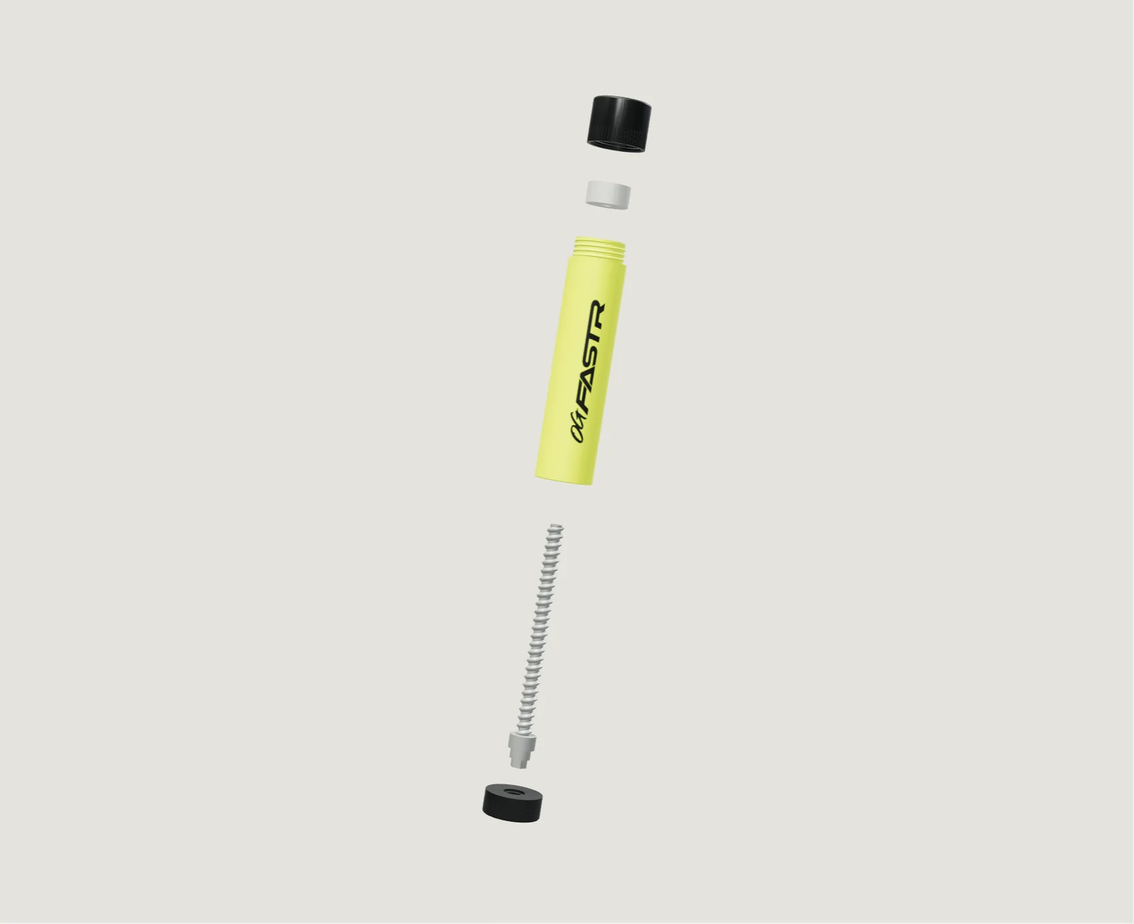
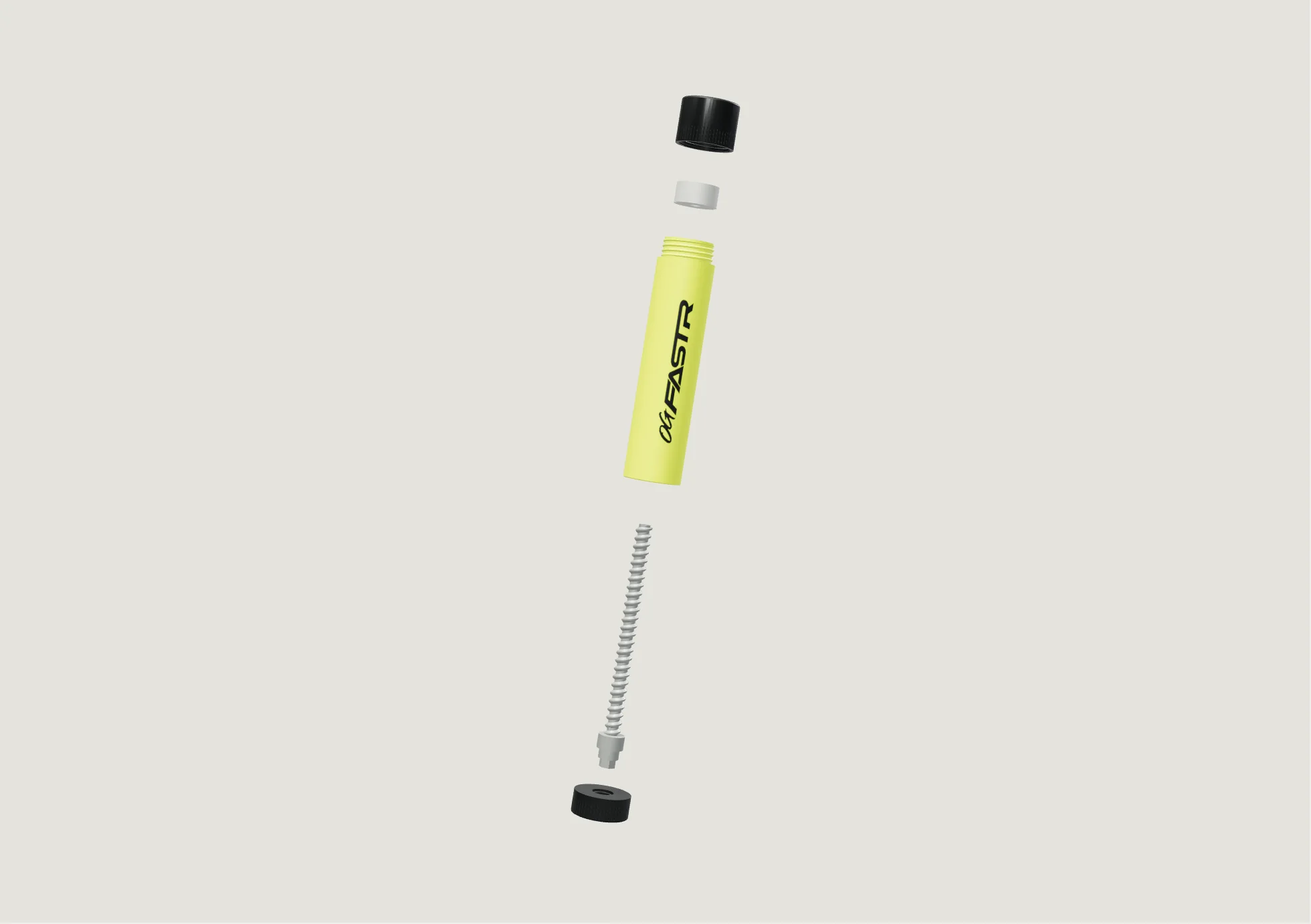
feat: v4 RC13 - asymmetric temple, one large Make still, phone headlines fit
Desktop temple: Run carries two rows, Practice and Wear beside it, Make and Meet below. Make without WebGL or with reduced motion: one large exploded still of our 3D model beside the steps; temple Make tile is the 3D section on the light stage. ANFANGEN and the Meet headline sized for 390, stronger veil. Reduced-motion band shows whole phrases. R3/R4 in docs/RC9_RESULT.md.

Changed region(s): [[0.4688, 0.0933, 0.5938, 0.5289], [0.4062, 0.5912, 0.5, 0.9023]]

diff --git a/og-sports/site/index.html b/og-sports/site/index.html
@@ -72,11 +72,11 @@
 <p aria-hidden="true" class="inscription inscription-roof"><span>Own Greatness</span></p>
 <ol aria-label="Die fünf Säulen" class="pillars" data-label-de="Die fünf Säulen" data-label-en="The five pillars">
 <!--pillars-->
-<li class="pillar pillar-run" style="--i:0"><a href="#fastr"><img alt="Läuferin als Silhouette vor beleuchteter Säulenhalle mit Spiegelung" data-alt-de="Läuferin als Silhouette vor beleuchteter Säulenhalle mit Spiegelung" data-alt-en="Runner silhouetted before an illuminated colonnade with reflection" loading="lazy" src="assets/pillar-run.webp" width="5760" height="7200" srcset="assets/responsive/pillar-run-640.webp 640w, assets/responsive/pillar-run-1080.webp 1080w, assets/responsive/pillar-run-1600.webp 1600w, assets/responsive/pillar-run-2400.webp 2400w, assets/responsive/pillar-run-2880.webp 2880w" sizes="(max-width: 600px) calc(100vw - 40px), (max-width: 767px) calc(100vw - 44px), (max-width: 899px) 100vw, 50vw" style="object-position:50% 45%"/><span class="pillar-num">I</span><span class="pillar-kind" data-de="Symbolbild · limoo / Pexels" data-en="Illustrative photo · limoo / Pexels">Symbolbild · limoo / Pexels</span><span class="pillar-word run">Run</span><span class="pillar-name">OG FASTR</span></a></li>
-<li class="pillar pillar-practice" style="--i:1"><a href="#practice"><img alt="Läufer auf einer Betontreppe im Abendlicht" data-alt-de="Läufer auf einer Betontreppe im Abendlicht" data-alt-en="Runner on concrete stairs in evening light" loading="lazy" src="assets/pillar-practice.webp" width="5304" height="7952" srcset="assets/responsive/pillar-practice-640.webp 640w, assets/responsive/pillar-practice-1080.webp 1080w, assets/responsive/pillar-practice-1600.webp 1600w, assets/responsive/pillar-practice-2400.webp 2400w, assets/responsive/pillar-practice-2880.webp 2880w" sizes="(max-width: 600px) calc(100vw - 40px), (max-width: 767px) calc(100vw - 44px), (max-width: 899px) 50vw, 50vw" style="object-position:50% 55%"/><span class="pillar-num">II</span><span class="pillar-kind" data-de="Symbolbild · Red John / Unsplash" data-en="Illustrative photo · Red John / Unsplash">Symbolbild · Red John / Unsplash</span><span class="pillar-word run">Practice</span><span class="pillar-name">FASTR30</span></a></li>
+<li class="pillar pillar-run" style="--i:0"><a href="#fastr"><img alt="Läuferin als Silhouette vor beleuchteter Säulenhalle mit Spiegelung" data-alt-de="Läuferin als Silhouette vor beleuchteter Säulenhalle mit Spiegelung" data-alt-en="Runner silhouetted before an illuminated colonnade with reflection" loading="lazy" src="assets/pillar-run.webp" width="5760" height="7200" srcset="assets/responsive/pillar-run-640.webp 640w, assets/responsive/pillar-run-1080.webp 1080w, assets/responsive/pillar-run-1600.webp 1600w, assets/responsive/pillar-run-2400.webp 2400w, assets/responsive/pillar-run-2880.webp 2880w" sizes="(max-width: 600px) calc(100vw - 40px), (max-width: 767px) calc(100vw - 44px), (max-width: 899px) 100vw, 66.67vw" style="object-position:50% 45%"/><span class="pillar-num">I</span><span class="pillar-kind" data-de="Symbolbild · limoo / Pexels" data-en="Illustrative photo · limoo / Pexels">Symbolbild · limoo / Pexels</span><span class="pillar-word run">Run</span><span class="pillar-name">OG FASTR</span></a></li>
+<li class="pillar pillar-practice" style="--i:1"><a href="#practice"><img alt="Läufer auf einer Betontreppe im Abendlicht" data-alt-de="Läufer auf einer Betontreppe im Abendlicht" data-alt-en="Runner on concrete stairs in evening light" loading="lazy" src="assets/pillar-practice.webp" width="5304" height="7952" srcset="assets/responsive/pillar-practice-640.webp 640w, assets/responsive/pillar-practice-1080.webp 1080w, assets/responsive/pillar-practice-1600.webp 1600w, assets/responsive/pillar-practice-2400.webp 2400w, assets/responsive/pillar-practice-2880.webp 2880w" sizes="(max-width: 600px) calc(100vw - 40px), (max-width: 767px) calc(100vw - 44px), (max-width: 899px) 50vw, 33.33vw" style="object-position:50% 55%"/><span class="pillar-num">II</span><span class="pillar-kind" data-de="Symbolbild · Red John / Unsplash" data-en="Illustrative photo · Red John / Unsplash">Symbolbild · Red John / Unsplash</span><span class="pillar-word run">Practice</span><span class="pillar-name">FASTR30</span></a></li>
 <li class="pillar pillar-wear" style="--i:2"><a href="#apparel"><img alt="FASTR30 Graphic Hoodie in Lavender" data-alt-de="FASTR30 Graphic Hoodie in Lavender" data-alt-en="FASTR30 Graphic Hoodie in lavender" loading="lazy" src="assets/responsive/hoodie-lavender-800.webp" width="1792" height="2240" srcset="assets/responsive/hoodie-lavender-480.webp 480w, assets/responsive/hoodie-lavender-800.webp 800w, assets/responsive/hoodie-lavender-1200.webp 1200w, assets/responsive/hoodie-lavender-1600.webp 1600w, assets/responsive/hoodie-lavender-1792.webp 1792w" sizes="(max-width: 600px) calc(100vw - 40px), (max-width: 767px) calc(100vw - 44px), (max-width: 899px) 50vw, 33.33vw" style="object-position:50% 36%"/><span class="pillar-num">III</span><span class="pillar-kind" data-de="KI-Visualisierung" data-en="AI visualisation">KI-Visualisierung</span><span class="pillar-word run">Wear</span><span class="pillar-name">Apparel</span></a></li>
-<li class="pillar pillar-make" style="--i:3"><a href="#stick"><img alt="FASTR STICK im 3D-Schnitt: Spindel und Hubteller" data-alt-de="FASTR STICK im 3D-Schnitt: Spindel und Hubteller" data-alt-en="FASTR STICK in 3D section: spindle and lift cup" loading="lazy" src="assets/stick-function.webp" width="1696" height="1382" style="object-position:50% 50%"/><span class="pillar-num">IV</span><span class="pillar-kind" data-de="3D-Produktvisualisierung · Prototyp" data-en="3D product visualisation · prototype">3D-Produktvisualisierung · Prototyp</span><span class="pillar-word run">Make</span><span class="pillar-name">FASTR STICK</span></a></li>
-<li class="pillar pillar-meet" style="--i:4"><a href="#live"><picture><source media="(max-width: 767px)" width="3736" height="4670" srcset="assets/responsive/pillar-meet-mobile-640.webp 640w, assets/responsive/pillar-meet-mobile-1080.webp 1080w, assets/responsive/pillar-meet-mobile-1280.webp 1280w, assets/responsive/pillar-meet-mobile-1600.webp 1600w" sizes="(max-width: 600px) calc(100vw - 40px), (max-width: 767px) calc(100vw - 44px), (max-width: 899px) 50vw, 33.33vw"/><img alt="Gruppe als Silhouetten auf einem Dach in der Abenddämmerung" data-alt-de="Gruppe als Silhouetten auf einem Dach in der Abenddämmerung" data-alt-en="Group silhouetted on a rooftop at dusk" loading="lazy" src="assets/pillar-meet.webp" style="object-position:55% 82%" width="3736" height="4670" srcset="assets/responsive/pillar-meet-640.webp 640w, assets/responsive/pillar-meet-1080.webp 1080w, assets/responsive/pillar-meet-1600.webp 1600w, assets/responsive/pillar-meet-2400.webp 2400w, assets/responsive/pillar-meet-2880.webp 2880w" sizes="(max-width: 600px) calc(100vw - 40px), (max-width: 767px) calc(100vw - 44px), (max-width: 899px) 50vw, 33.33vw"/></picture><span class="pillar-num">V</span><span class="pillar-kind" data-de="Symbolbild · Victoria Prymak / Unsplash" data-en="Illustrative photo · Victoria Prymak / Unsplash">Symbolbild · Victoria Prymak / Unsplash</span><span class="pillar-word">Meet</span><span class="pillar-name">Live</span></a></li>
+<li class="pillar pillar-make" style="--i:3"><a href="#stick"><img alt="FASTR STICK im 3D-Schnitt: Spindel und Hubteller" data-alt-de="FASTR STICK im 3D-Schnitt: Spindel und Hubteller" data-alt-en="FASTR STICK in 3D section: spindle and lift cup" loading="lazy" src="assets/stick-function.webp" width="1960" height="1382" style="object-position:50% 50%"/><span class="pillar-num">IV</span><span class="pillar-kind" data-de="3D-Produktvisualisierung · Prototyp" data-en="3D product visualisation · prototype">3D-Produktvisualisierung · Prototyp</span><span class="pillar-word run">Make</span><span class="pillar-name">FASTR STICK</span></a></li>
+<li class="pillar pillar-meet" style="--i:4"><a href="#live"><picture><source media="(max-width: 767px)" width="3736" height="4670" srcset="assets/responsive/pillar-meet-mobile-640.webp 640w, assets/responsive/pillar-meet-mobile-1080.webp 1080w, assets/responsive/pillar-meet-mobile-1280.webp 1280w, assets/responsive/pillar-meet-mobile-1600.webp 1600w" sizes="(max-width: 600px) calc(100vw - 40px), (max-width: 767px) calc(100vw - 44px), (max-width: 899px) 50vw, 50vw"/><img alt="Gruppe als Silhouetten auf einem Dach in der Abenddämmerung" data-alt-de="Gruppe als Silhouetten auf einem Dach in der Abenddämmerung" data-alt-en="Group silhouetted on a rooftop at dusk" loading="lazy" src="assets/pillar-meet.webp" style="object-position:55% 64%" width="3736" height="4670" srcset="assets/responsive/pillar-meet-640.webp 640w, assets/responsive/pillar-meet-1080.webp 1080w, assets/responsive/pillar-meet-1600.webp 1600w, assets/responsive/pillar-meet-2400.webp 2400w, assets/responsive/pillar-meet-2880.webp 2880w" sizes="(max-width: 600px) calc(100vw - 40px), (max-width: 767px) calc(100vw - 44px), (max-width: 899px) 50vw, 50vw"/></picture><span class="pillar-num">V</span><span class="pillar-kind" data-de="Symbolbild · Victoria Prymak / Unsplash" data-en="Illustrative photo · Victoria Prymak / Unsplash">Symbolbild · Victoria Prymak / Unsplash</span><span class="pillar-word">Meet</span><span class="pillar-name">Live</span></a></li>
 <!--/pillars-->
 </ol>
 <p aria-hidden="true" class="inscription inscription-base"><span>Original Grind</span></p>
@@ -173,6 +173,7 @@
 </ol>
 <p class="stick-gesture label" data-de="Ziehen zum Drehen · Scrollen zum Entdecken" data-en="Drag to rotate · Scroll to explore">Ziehen zum Drehen · Scrollen zum Entdecken</p>
 </div>
+<figure class="stick-still"><img alt="FASTR STICK, 3D-Explosionsansicht der fünf Bauteile" data-alt-de="FASTR STICK, 3D-Explosionsansicht der fünf Bauteile" data-alt-en="FASTR STICK, 3D exploded view of the five parts" height="1382" loading="lazy" src="assets/stick-build.webp" width="1960"/></figure>
 <p class="stick-caption label" data-de="3D-Produktvisualisierung · Prototyp, kein Serienprodukt" data-en="3D product visualisation · prototype, not a production product">3D-Produktvisualisierung · Prototyp, kein Serienprodukt</p>
 </div>
 <div class="stick-text">
@@ -182,9 +183,9 @@
 <button type="button" data-stick-phase="2" aria-pressed="false"><span class="label">03</span><span data-de="Funktion" data-en="Function">Funktion</span></button>
 </div>
 <div class="stick-steps">
-<section class="stick-step"><img alt="FASTR STICK, 3D-Ansicht der geschlossenen Form" class="step-still" data-alt-de="FASTR STICK, 3D-Ansicht der geschlossenen Form" data-alt-en="FASTR STICK, 3D view of the closed form" height="1382" loading="lazy" src="assets/stick-form.webp" width="1696"/><p class="label" data-de="01 / Die Form" data-en="01 / The form">01 / Die Form</p><h4 data-de="Weniger dazwischen." data-en="Less in the way.">Weniger dazwischen.</h4><p data-de="Ein Anti-Chafing-Stick für lange Strecken. Schlanke Form, ein klarer Handgriff." data-en="An anti-chafing stick for the long run. A slim form. One simple gesture.">Ein Anti-Chafing-Stick für lange Strecken. Schlanke Form, ein klarer Handgriff.</p></section>
-<section class="stick-step"><img alt="FASTR STICK, 3D-Explosionsansicht der fünf Bauteile" class="step-still" data-alt-de="FASTR STICK, 3D-Explosionsansicht der fünf Bauteile" data-alt-en="FASTR STICK, 3D exploded view of the five parts" height="1382" loading="lazy" src="assets/stick-build.webp" width="1696"/><p class="label" data-de="02 / Der Aufbau" data-en="02 / The build">02 / Der Aufbau</p><h4 data-de="Fünf Teile. Ein Gedanke." data-en="Five parts. One idea.">Fünf Teile. Ein Gedanke.</h4><p data-de="Schraubkappe, Gehäuse, Hubteller, Spindel und Drehfuß. Jedes Teil hat eine Aufgabe." data-en="Screw cap, housing, lift cup, spindle and turning base. Every part has a purpose.">Schraubkappe, Gehäuse, Hubteller, Spindel und Drehfuß. Jedes Teil hat eine Aufgabe.</p></section>
-<section class="stick-step"><img alt="FASTR STICK, 3D-Schnitt mit Spindel und Hubteller" class="step-still" data-alt-de="FASTR STICK, 3D-Schnitt mit Spindel und Hubteller" data-alt-en="FASTR STICK, 3D section with spindle and lift cup" height="1382" loading="lazy" src="assets/stick-function.webp" width="1696"/><p class="label" data-de="03 / Das Funktionsprinzip" data-en="03 / How it works">03 / Das Funktionsprinzip</p><h4 data-de="Drehen. Weitergehen." data-en="Turn. Keep going.">Drehen. Weitergehen.</h4><p data-de="Am Fuß drehen, die Spindel hebt den Hubteller. Der Schnitt zeigt den Vorschub." data-en="Turn the base and the spindle lifts the cup. The section shows the movement.">Am Fuß drehen, die Spindel hebt den Hubteller. Der Schnitt zeigt den Vorschub.</p></section>
+<section class="stick-step"><p class="label" data-de="01 / Die Form" data-en="01 / The form">01 / Die Form</p><h4 data-de="Weniger dazwischen." data-en="Less in the way.">Weniger dazwischen.</h4><p data-de="Ein Anti-Chafing-Stick für lange Strecken. Schlanke Form, ein klarer Handgriff." data-en="An anti-chafing stick for the long run. A slim form. One simple gesture.">Ein Anti-Chafing-Stick für lange Strecken. Schlanke Form, ein klarer Handgriff.</p></section>
+<section class="stick-step"><p class="label" data-de="02 / Der Aufbau" data-en="02 / The build">02 / Der Aufbau</p><h4 data-de="Fünf Teile. Ein Gedanke." data-en="Five parts. One idea.">Fünf Teile. Ein Gedanke.</h4><p data-de="Schraubkappe, Gehäuse, Hubteller, Spindel und Drehfuß. Jedes Teil hat eine Aufgabe." data-en="Screw cap, housing, lift cup, spindle and turning base. Every part has a purpose.">Schraubkappe, Gehäuse, Hubteller, Spindel und Drehfuß. Jedes Teil hat eine Aufgabe.</p></section>
+<section class="stick-step"><p class="label" data-de="03 / Das Funktionsprinzip" data-en="03 / How it works">03 / Das Funktionsprinzip</p><h4 data-de="Drehen. Weitergehen." data-en="Turn. Keep going.">Drehen. Weitergehen.</h4><p data-de="Am Fuß drehen, die Spindel hebt den Hubteller. Der Schnitt zeigt den Vorschub." data-en="Turn the base and the spindle lifts the cup. The section shows the movement.">Am Fuß drehen, die Spindel hebt den Hubteller. Der Schnitt zeigt den Vorschub.</p></section>
 </div>
 <div class="stick-actions"><a class="text-action" href="https://fastr30.com/shop" rel="noopener" target="_blank"><span data-de="Zum STICK" data-en="See the STICK">Zum STICK</span><span aria-hidden="true">↗</span></a><button aria-haspopup="dialog" class="text-action" data-project="stick" type="button"><span data-de="Entwicklung ansehen" data-en="View development">Entwicklung ansehen</span></button></div>
 </div>

diff --git a/og-sports/site/styles.css b/og-sports/site/styles.css
@@ -217,6 +217,16 @@ ol, ul { padding: 0; list-style: none; }
 .pillar-word.run { font-style: italic; font-weight: 800; font-stretch: 125%; }
 .pillar-name { left: 18px; bottom: 18px; font: 500 .6875rem/1.2 var(--mono); letter-spacing: .08em; text-transform: uppercase; opacity: .86; }
 .pillar a:focus-visible { outline: 2px solid var(--lime); outline-offset: -6px; }
+/* desktop: an asymmetric temple, Run carries it; not a category grid */
+@media (min-width: 900px) {
+  .pillars { grid-auto-rows: clamp(220px, 22vw, 400px); }
+  .pillars .pillar { aspect-ratio: auto; }
+  .pillars .pillar-run { grid-column: 1 / 5; grid-row: span 2; }
+  .pillars .pillar-practice, .pillars .pillar-wear { grid-column: 5 / 7; }
+  .pillars .pillar-make { grid-column: 1 / 4; }
+  .pillars .pillar-meet { grid-column: 4 / 7; }
+  .pillars .pillar-make img { object-fit: contain; background: #e4e3dd; }
+}
 .pillar:hover img, .pillar:focus-within img { transform: scale(1.04); }
 .motion-ok .temple:not(.is-in) .pillar { clip-path: inset(100% 0 0 0); }
 .motion-ok .temple.is-in .pillar { clip-path: inset(0 0 0 0); transition: clip-path 1.1s var(--ease) calc(var(--i) * 110ms); }
@@ -306,6 +316,7 @@ ol, ul { padding: 0; list-style: none; }
 .live-cta { display: flex; flex-wrap: wrap; align-items: center; justify-content: flex-end; gap: 0 24px; }
 .live-cta .text-action { min-height: 44px; color: #fff; font: 600 .6875rem/1 var(--sans); letter-spacing: .08em; }
 .live .bleed-caption { align-items: center; bottom: 6px; }
+.live .bleed-veil { background: linear-gradient(180deg, rgba(0, 0, 0, .35), transparent 28%, transparent 42%, rgba(0, 0, 0, .8)); }
 
 /* IV — Make: one pinned product stage, with real DOM copy alongside. */
 .stick { padding-top: clamp(48px, 5vw, 88px); padding-bottom: var(--chapter); } /* follows Wear on the same paper: no double chapter gap */
@@ -348,6 +359,13 @@ ol, ul { padding: 0; list-style: none; }
 .stick:not(.is-ready) .stick-viewport { display: none; }
 .stick:not(.is-ready) .stick-caption { margin: 0 0 18px; }
 .stick:not(.is-ready) .stick-step { border-top: 0; padding-top: 0; }
+/* static state (no WebGL or reduced motion): one large still of our own 3D model, exploded, beside the steps */
+.stick-still { display: none; }
+.stick:not(.is-ready) .stick-viewport { display: none; }
+.stick:not(.is-ready) .stick-still { display: block; margin: 0; background: #e4e3dd; }
+.stick:not(.is-ready) .stick-still img { width: 100%; height: auto; }
+.stick:not(.is-ready) .stick-step h4 { font-size: clamp(1.25rem, 1.9vw, 1.875rem); margin: 10px 0; }
+.stick:not(.is-ready) .stick-step + .stick-step { margin-top: 18px; padding-top: 18px; border-top: 1px solid var(--rule); }
 .stick:not(.is-ready) .stick-stage { grid-template-columns: minmax(0, 1fr); }
 .stick:not(.is-ready) .stick-steps { display: grid; grid-template-columns: repeat(3, minmax(0, 1fr)); gap: var(--gap); }
 .stick:not(.is-ready) .stick-step { margin: 0; padding-top: 16px; border-top: 1px solid var(--rule); }
@@ -380,7 +398,7 @@ ol, ul { padding: 0; list-style: none; }
 
 /* 9 ─ The way in, and the signature. It follows the people of Meet; three doors as rows, like the seven standards.
    Lime for the FASTR30 door, lavender for the two OG SPORTS doors. */
-.connect { padding: clamp(56px, 6vw, 104px) var(--gutter) clamp(80px, 9vw, 150px); background: var(--ink); color: var(--on-ink); }
+.connect { padding: clamp(56px, 6vw, 104px) var(--gutter) clamp(48px, 5vw, 88px); background: var(--ink); color: var(--on-ink); }
 .connect .label { color: var(--on-ink-muted); }
 .connect-head { display: grid; grid-template-columns: repeat(12, minmax(0, 1fr)); column-gap: var(--gap); row-gap: 18px; align-items: end; margin-bottom: clamp(36px, 4vw, 64px); }
 .connect-head .label { grid-column: 1 / -1; }
@@ -392,7 +410,7 @@ ol, ul { padding: 0; list-style: none; }
 .way-num { font: 500 .6875rem var(--mono); letter-spacing: .08em; color: var(--on-ink-muted); }
 .way-title { font: 750 clamp(1.875rem, 3.9vw, 4rem)/.92 var(--wide); font-stretch: 112%; text-transform: uppercase; letter-spacing: -.02em; transition: transform .35s var(--ease), color .25s; }
 .way-first .way { background: var(--lime); color: var(--ink); padding-left: clamp(16px, 2vw, 28px); padding-right: clamp(16px, 2vw, 28px); }
-.way-first .way-title { font-style: italic; font-weight: 800; font-stretch: 125%; font-size: clamp(2.5rem, 6vw, 6rem); }
+.way-first .way-title { font-style: italic; font-weight: 800; font-stretch: 125%; font-size: clamp(1.75rem, 6vw, 6rem); }
 .way-first .way-num, .way-first .way-note { color: rgba(10, 10, 10, .72); }
 .connect-ways li:not(.way-first) .way-title { font-size: clamp(1.5rem, 2.6vw, 2.5rem); }
 .way-note { font-size: .9375rem; line-height: 1.45; color: var(--on-ink-muted); max-width: 34ch; }
@@ -582,8 +600,7 @@ dialog::backdrop { background: rgba(14, 15, 13, .55); backdrop-filter: blur(6px)
   .tile-people img { aspect-ratio: 4 / 3.4; }
   .tile figcaption { position: static; padding: 12px var(--gutter) 16px; background: var(--ink); }
   .movement .bleed-top { flex-direction: column; align-items: flex-start; gap: 10px; }
-  .stick:not(.is-ready) .stick-steps { grid-template-columns: minmax(0, 1fr); }
-  .live h3 { bottom: 128px; } /* clear the credit, the status and the live-formats link below it */
+  .live h3 { bottom: 128px; right: var(--gutter); font-size: clamp(1.75rem, 8.6vw, 2.75rem); } /* clear the credit, the status and the live-formats link below it */
   .live .bleed-caption { align-items: flex-start; }
   .live-cta { justify-content: flex-start; }
   .bleed-caption { flex-direction: column; gap: 2px; }
@@ -601,7 +618,10 @@ dialog::backdrop { background: rgba(14, 15, 13, .55); backdrop-filter: blur(6px)
   :root { --gutter: max(56px, calc((100vw - 1720px) / 2)); }
 }
 @media (prefers-reduced-motion: reduce) {
-  .band-track { animation: none; }
+  .band-track { animation: none; width: 100%; justify-content: center; }
+  .band-half + .band-half, .band-half span:nth-child(n+4) { display: none; }
+  .band-half { flex-wrap: wrap; justify-content: center; }
+  .band-half span { font-size: clamp(1.25rem, 3.4vw, 3rem); }
   .band { transform: none; }
   html { scroll-behavior: auto; }
   *, *::before, *::after { transition-duration: .01ms !important; animation-duration: .01ms !important; animation-iteration-count: 1 !important; }

diff --git a/og-sports/scripts/pillars.py b/og-sports/scripts/pillars.py
@@ -35,7 +35,7 @@ PILLARS = [
       ("FASTR STICK im 3D-Schnitt: Spindel und Hubteller", "FASTR STICK in 3D section: spindle and lift cup"))),
     # RC9: Meet is the last pillar and the last chapter, so the page ends with people, then the way in
     ("V", "Meet", False, "#live", "Live",
-     ("img", "assets/pillar-meet.webp", "55% 82%", ("Victoria Prymak / Unsplash", "Victoria Prymak / Unsplash"),
+     ("img", "assets/pillar-meet.webp", "55% 64%", ("Victoria Prymak / Unsplash", "Victoria Prymak / Unsplash"),
       ("Gruppe als Silhouetten auf einem Dach in der Abenddämmerung", "Group silhouetted on a rooftop at dusk"))),
 ]
 
@@ -59,7 +59,7 @@ def pillar(i, row):
             kind = (kind[0], kind[1].replace('Symbolbild', 'Illustrative photo'))
         phone = '(max-width: 600px) calc(100vw - 40px), (max-width: 767px) calc(100vw - 44px), '
         tablet = '(max-width: 899px) 100vw, ' if i == 0 else '(max-width: 899px) 50vw, '
-        sizes = phone + tablet + ('50vw' if i < 2 else '33.33vw')
+        sizes = phone + tablet + ('66.67vw' if i == 0 else '33.33vw' if i < 3 else '50vw')  # asymmetric temple (RC13)
         image_tag = (
             f'<img alt="{escape(alt[0])}" data-alt-de="{escape(alt[0])}" data-alt-en="{escape(alt[1])}" '
             f'loading="lazy" src="{src}" {attributes(src, sizes)} style="object-position:{pos}"/>'

diff --git a/og-sports/scripts/responsive_markup.py b/og-sports/scripts/responsive_markup.py
@@ -9,8 +9,8 @@ def attributes(src, sizes):
     entry = json.loads((ROOT / 'docs/responsive-assets.json').read_text(encoding='utf-8')).get(src)
     if not entry:
         # STICK is intentionally byte-identical and has no generated variants.
-        if src.endswith(('stick-form.webp', 'stick-build.webp', 'stick-function.webp')):
-            return 'width="1696" height="1382"'  # stills of our own 3D viewer (rc9-candidates/stick3d)
+        if src.endswith(('stick-build.webp', 'stick-function.webp')):
+            return 'width="1960" height="1382"'  # stills of our own 3D viewer (rc9-candidates/stick3d)
         return 'width="880" height="1100"' if src.endswith(('stick-lime.jpg', 'stick-pink.jpg')) else ''
     candidates = ', '.join(f'{v["file"]} {v["width"]}w' for v in entry['variants'])
     w, h = entry['crop_pixels']

diff --git a/og-sports/docs/PHOTO_CREDITS.md b/og-sports/docs/PHOTO_CREDITS.md
@@ -27,7 +27,7 @@ Frühere Aussagen „unverändert“/1373×485 unten sind historische Stände, d
 | II Practice | `practice-start.webp` | Symbolbild, Pexels License | Thomas Ronveaux, https://www.pexels.com/photo/a-close-up-shot-of-an-athlete-on-a-race-track-13159243/ — Grade p50, Größe angepasst |
 | V Meet | `meet-night.webp` | Symbolbild · Fitsum Admasu / Unsplash | https://unsplash.com/photos/silhouette-of-three-women-running-on-grey-concrete-road-oGv9xIl7DkY — Unsplash License; bearbeitet: Aufdruck entfernt (bereitgestellter Master); Grade p50, Größe angepasst |
 | III Wear (Black), Säule III (Lavender) | `responsive/hoodie-*-{480,800,1200,1600,1792}.webp` | KI-Visualisierung | KI-Visualisierung (Higgsfield, GPT Image 2.5) auf Basis der fastr30.com-Produktrenderings, Stofffarbe an das Original angeglichen, 2026-10-26 |
-| Säule IV, IV Make (ruhiger Zustand) | `stick-form.webp`, `stick-build.webp`, `stick-function.webp` | 3D-Produktvisualisierung · Prototyp | Standbilder unseres eigenen 3D-Modells (`site/stick-viewer.js`, fünf Prototyp-Bauteile), in Chrome gerendert mit `og-sports-sources/rc9-candidates/stick3d/render_states.py`; keine KI, keine Retusche (RC12) |
+| Säule IV, IV Make (ruhiger Zustand) | `stick-build.webp`, `stick-function.webp` | 3D-Produktvisualisierung · Prototyp | Standbilder unseres eigenen 3D-Modells (`site/stick-viewer.js`, fünf Prototyp-Bauteile), in Chrome gerendert mit `og-sports-sources/rc9-candidates/stick3d/render_states.py`; keine KI, keine Retusche (RC12) |
 | IV Make | `stick-lime.jpg` | 3D-Produktvisualisierung / statischer Fallback | unverändert von fastr30.com/shop; Hash-Test. `stick-exploded.jpg` bleibt als unverändertes Referenzasset erhalten, wird nicht mehr auf der Hauptseite geladen. |
 | IV Make | `stick.glb` | interaktive 3D-Produktvisualisierung eines Prototyps | fünf bereitgestellte Montage-STLs aus `fastr-stick-prototype/output/preview/`; reduziert und quantisiert mit `scripts/build_stick_model.py`. Originalkonturen der bestehenden OG-FASTR-Wortmarke als Gehäuseaufdruck; keine KI-Erzeugung. Hashes und Geometrieinventur in `stick-model.json`. Bewegung und Schnittansicht illustrieren das Prinzip, keine physikalische Validierung. |
 

diff --git a/og-sports/docs/RC9_RESULT.md b/og-sports/docs/RC9_RESULT.md
@@ -59,3 +59,21 @@ follow directly („Hier fängt es an.", light voice); „In real life" is the c
 the way in speak in the opening's quiet voice (light, mixed case). Nav „Säulen 05" → #pillars. Wear→Make gap
 halved, STICK caption one line, tablet manifest crop keeps the hands, Make tile says „Prototyp". Review sheets:
 seams hatched red and labelled, slices stacked without blank space.
+
+## R3 (RC11 `b951fd3`) and R4 (RC12 `be7f99e`)
+
+| | Codex run 1 / 2 | Kimi run 1 / 2 |
+|---|---|---|
+| R3 | 6.88 / 6.88 | 7.75 / 8.00 |
+| R4 | 6.62 / 6.75 | 7.88 / 7.88 |
+
+R4 real findings: „ANFANGEN" clipped in its lime band at 390 (Codex blocker); Meet headline at 390 ran to the edge
+and lost contrast on the backlight (Kimi and Codex); temple still read as a category grid; the static Make
+triptych as three equal cards; the reduced-motion band ended mid-word.
+
+## RC13
+
+Temple asymmetric on desktop (Run carries two rows, Practice and Wear beside it, Make and Meet below); Make
+static = one large still of our 3D model (exploded) beside the steps, the temple Make tile is the 3D section on
+the light stage; „ANFANGEN" and the Meet headline sized for 390, stronger veil under the Meet headline;
+reduced-motion band shows three whole phrases, centred; less dead space after the doors.
